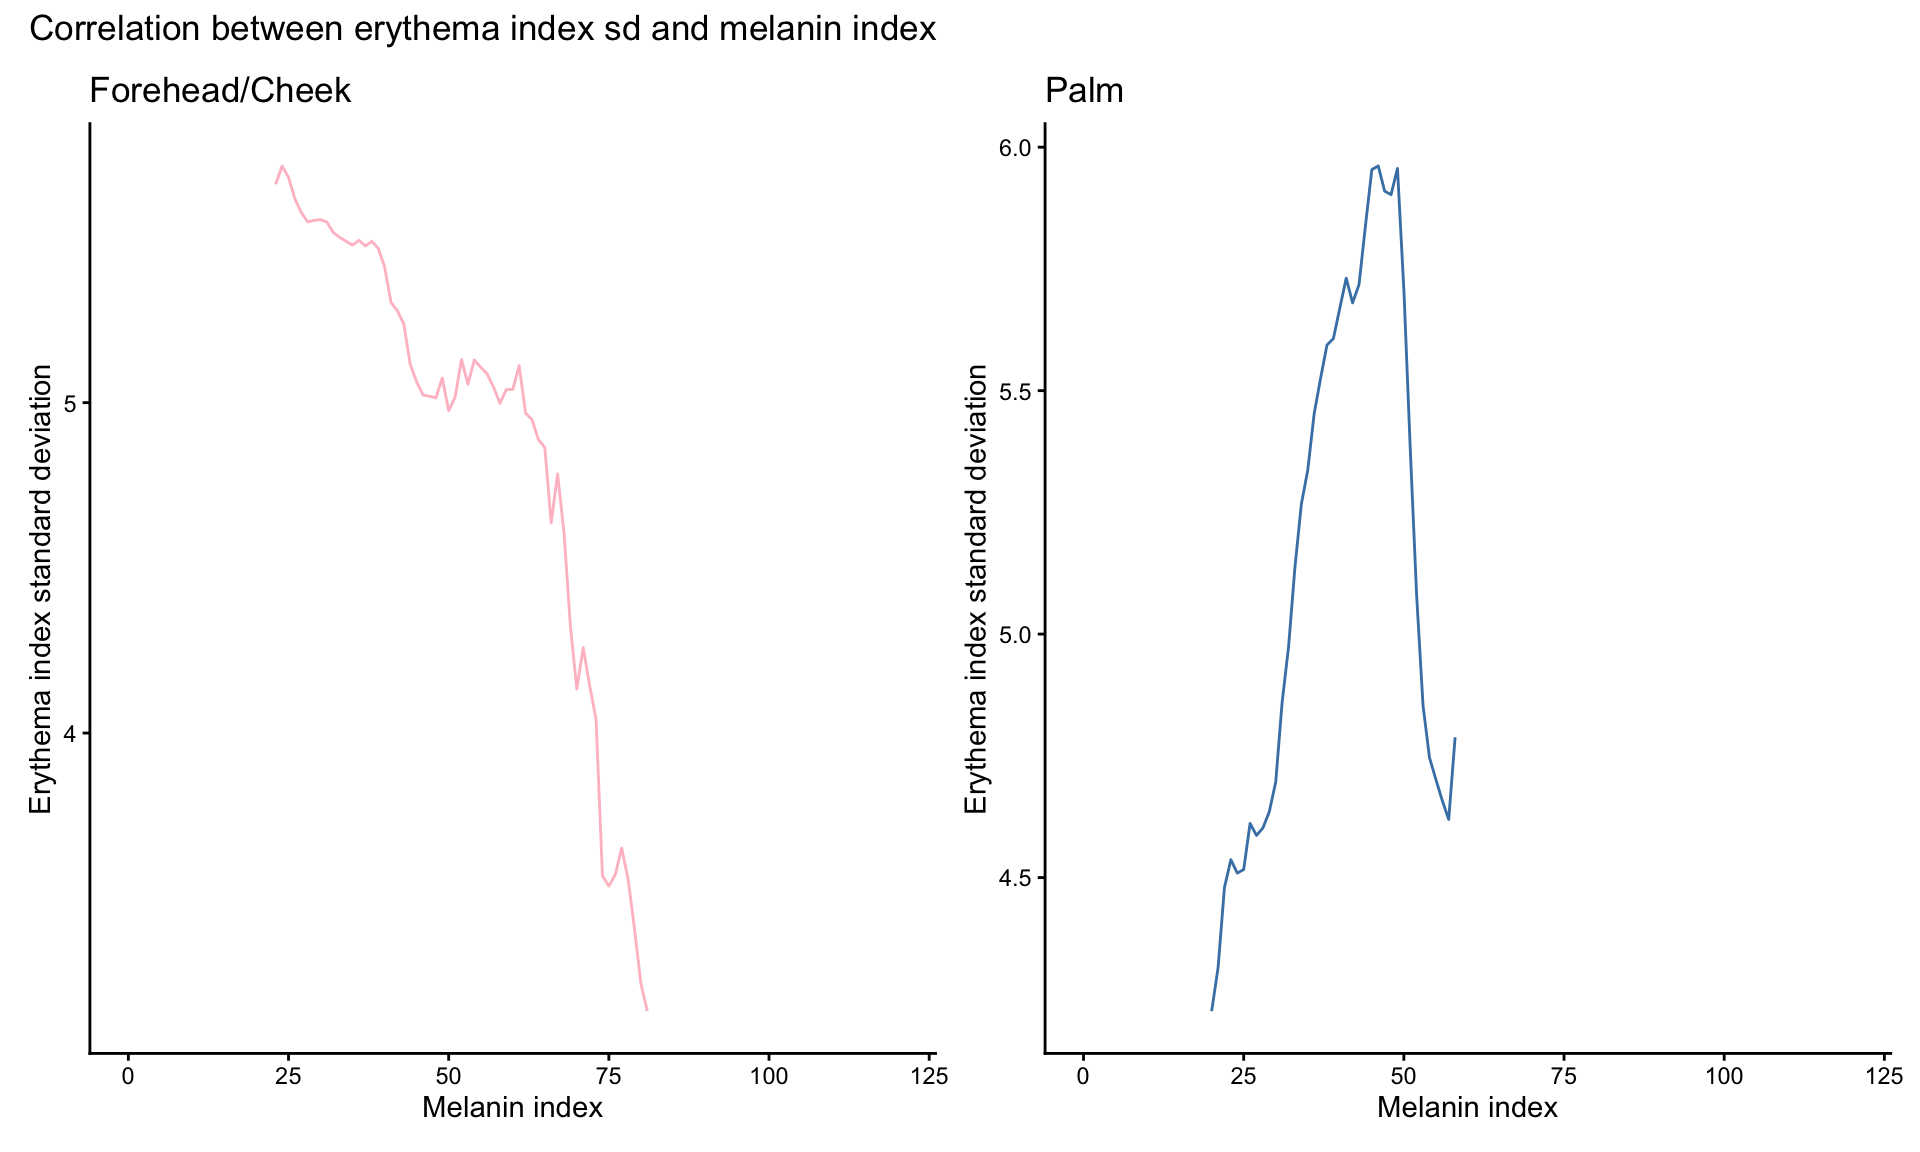
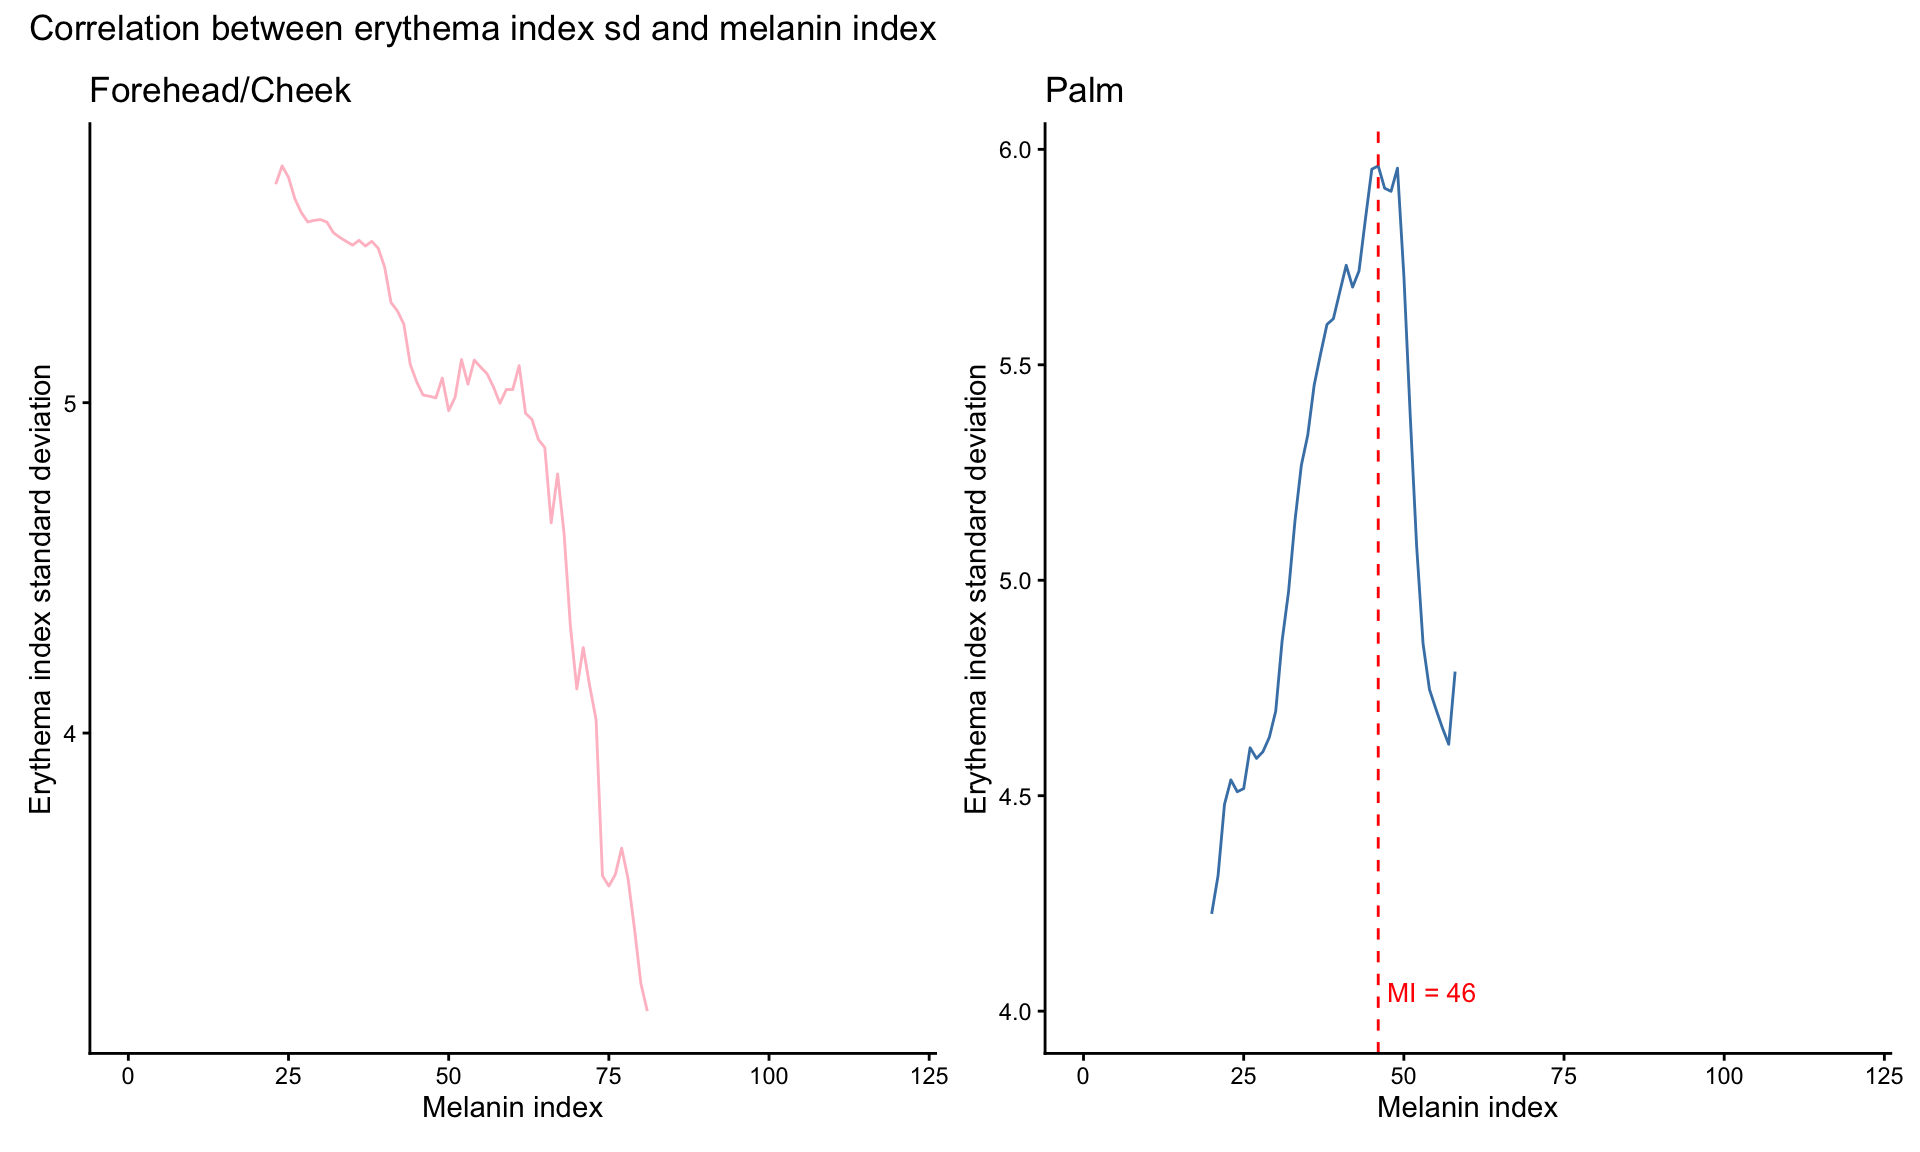
Build site.

diff --git a/docs/JID_SkinOptics.html b/docs/JID_SkinOptics.html
@@ -11,7 +11,7 @@
 
 <meta name="author" content="Junhui He" />
 
-<meta name="date" content="2025-12-11" />
+<meta name="date" content="2025-12-17" />
 
 <title>Skin Optics Analysis based on ISSA Data</title>
 
@@ -357,7 +357,7 @@ div.tocify {
 <h1 class="title toc-ignore">Skin Optics Analysis based on ISSA
 Data</h1>
 <h4 class="author">Junhui He</h4>
-<h4 class="date">2025-12-11</h4>
+<h4 class="date">2025-12-17</h4>
 
 </div>
 
@@ -386,7 +386,7 @@ class="glyphicon glyphicon-ok text-success" aria-hidden="true"></span>
 <div class="tab-content">
 <div id="summary" class="tab-pane fade in active">
 <p>
-<strong>Last updated:</strong> 2025-12-11
+<strong>Last updated:</strong> 2025-12-17
 </p>
 <p>
 <strong>Checks:</strong> <span
@@ -517,15 +517,15 @@ project makes it easier to run your code on other machines.</p>
 <div class="panel panel-default">
 <div class="panel-heading">
 <p class="panel-title">
-<a data-toggle="collapse" data-parent="#workflowr-checks" href="#strongRepositoryversionstrongahrefhttpsgithubcomlasisilabSkinOpticstreef9242483a8269c007f638b250a98827cd570a4adtargetblankf924248a">
+<a data-toggle="collapse" data-parent="#workflowr-checks" href="#strongRepositoryversionstrongahrefhttpsgithubcomlasisilabSkinOpticstreea6f7dc4ef8e85ca9313219dc9c0a235a0c7c830atargetblanka6f7dc4a">
 <span class="glyphicon glyphicon-ok text-success"
 aria-hidden="true"></span> <strong>Repository version:</strong>
-<a href="https://github.com/lasisilab/SkinOptics/tree/f9242483a8269c007f638b250a98827cd570a4ad" target="_blank">f924248</a>
+<a href="https://github.com/lasisilab/SkinOptics/tree/a6f7dc4ef8e85ca9313219dc9c0a235a0c7c830a" target="_blank">a6f7dc4</a>
 </a>
 </p>
 </div>
 <div
[2 lines of base64/hex data omitted]
 class="panel-collapse collapse">
 <div class="panel-body">
 <p>
@@ -535,7 +535,7 @@ reproducibility.
 </p>
 <p>
 The results in this page were generated with repository version
-<a href="https://github.com/lasisilab/SkinOptics/tree/f9242483a8269c007f638b250a98827cd570a4ad" target="_blank">f924248</a>.
+<a href="https://github.com/lasisilab/SkinOptics/tree/a6f7dc4ef8e85ca9313219dc9c0a235a0c7c830a" target="_blank">a6f7dc4</a>.
 See the <em>Past versions</em> tab to see a history of the changes made
 to the R Markdown and HTML files.
 </p>
@@ -553,6 +553,28 @@ Ignored files:
     Ignored:    .RData
     Ignored:    .Rhistory
     Ignored:    .Rproj.user/
+
+Untracked files:
+    Untracked:  output/palm_ei_face_mi_correlation.pdf
+    Untracked:  output/palm_ei_face_mi_sd_correlation.pdf
+    Untracked:  output/reflectance_face.pdf
+    Untracked:  output/reflectance_palm.pdf
+    Untracked:  output/reflectance_palm_face.pdf
+
+Unstaged changes:
+    Modified:   output/absorbance_derivative_face.pdf
+    Modified:   output/absorbance_derivative_palm.pdf
+    Modified:   output/absorbance_derivative_palm_face.pdf
+    Modified:   output/absorbance_mi_sd.pdf
+    Modified:   output/ei_mi_correlation.pdf
+    Modified:   output/ei_sd_mi_correlation.pdf
+    Modified:   output/heatmap.pdf
+    Modified:   output/mi_distribution.pdf
+    Modified:   output/reflectance_derivative_face.pdf
+    Modified:   output/reflectance_derivative_palm.pdf
+    Modified:   output/reflectance_derivative_palm_face.pdf
+    Modified:   output/reflectance_mi_sd.pdf
+    Modified:   output/reflectance_mi_sd_regression.pdf
 
 </code></pre>
 <p>
@@ -597,6 +619,40 @@ Message
 </tr>
 </thead>
 <tbody>
+<tr>
+<td>
+Rmd
+</td>
+<td>
+<a href="https://github.com/lasisilab/SkinOptics/blob/a6f7dc4ef8e85ca9313219dc9c0a235a0c7c830a/analysis/JID_SkinOptics.Rmd" target="_blank">a6f7dc4</a>
+</td>
+<td>
+Junhui He
+</td>
+<td>
+2025-12-17
+</td>
+<td>
+update JID_SkinOptics.Rmd
+</td>
+</tr>
+<tr>
+<td>
+html
+</td>
+<td>
+<a href="https://rawcdn.githack.com/lasisilab/SkinOptics/32c3e8f1f160ac93ffe91d4a5af83e756298032a/docs/JID_SkinOptics.html" target="_blank">32c3e8f</a>
+</td>
+<td>
+Junhui He
+</td>
+<td>
+2025-12-11
+</td>
+<td>
+Rebuild site to apply navbar layout
+</td>
+</tr>
 <tr>
 <td>
 html
@@ -904,10 +960,6 @@ Junhui He
 </div>
 <pre><code>quartz_off_screen 
                 2 </code></pre>
-</div>
-<div id="first-derivatives-of-reflectance-by-eumelanin-classes"
-class="section level2">
-<h2>First derivatives of reflectance by eumelanin classes</h2>
 <table>
 <caption>Number of subjects in each eumelanin class
 (Forehead/Cheek)</caption>
@@ -967,6 +1019,34 @@ class="section level2">
 </tr>
 </tbody>
 </table>
+</div>
+<div id="reflectance-by-eumelanin-classes" class="section level2">
+<h2>Reflectance by eumelanin classes</h2>
+<div id="face-reflectance-by-face-eumelanin-class"
+class="section level3">
+<h3>Face reflectance by face eumelanin class</h3>
+<p><img src="figure/JID_SkinOptics.Rmd/plot-raw-reflectance-by-class-face-1.png" width="100%" style="display: block; margin: auto;" /></p>
+<pre><code>quartz_off_screen 
+                2 </code></pre>
+</div>
+<div id="palm-reflectance-by-palm-eumelanin-class"
+class="section level3">
+<h3>Palm reflectance by palm eumelanin class</h3>
+<p><img src="figure/JID_SkinOptics.Rmd/plot-raw-reflectance-by-class-palm-1.png" width="100%" style="display: block; margin: auto;" /></p>
+<pre><code>quartz_off_screen 
+                2 </code></pre>
+</div>
+<div id="palm-reflectance-by-face-eumelanin-class"
+class="section level3">
+<h3>Palm reflectance by face eumelanin class</h3>
+<p><img src="figure/JID_SkinOptics.Rmd/plot-raw-reflectance-by-class-palm-face-1.png" width="100%" style="display: block; margin: auto;" /></p>
+<pre><code>quartz_off_screen 
+                2 </code></pre>
+</div>
+</div>
+<div id="first-derivatives-of-reflectance-by-eumelanin-classes"
+class="section level2">
+<h2>First derivatives of reflectance by eumelanin classes</h2>
 <div id="face-reflectance-derivatives-by-face-eumelanin-class"
 class="section level3">
 <h3>Face reflectance derivatives by face eumelanin class</h3>
@@ -1536,6 +1616,9 @@ Junhui He
 </div>
 <pre><code>quartz_off_screen 
                 2 </code></pre>
+<p><img src="figure/JID_SkinOptics.Rmd/palmei-facemi-correlation-1.png" width="100%" style="display: block; margin: auto;" /></p>
+<pre><code>quartz_off_screen 
+                2 </code></pre>
 </div>
 <div
 id="correlation-between-erythema-index-variability-and-melanin-index-by-site"
@@ -1605,61 +1688,7 @@ Junhui He
 </div>
 <pre><code>quartz_off_screen 
                 2 </code></pre>
-</div>
-<div
-id="correlation-between-erythema-index-variability-and-melanin-index-for-combined-face-and-palm-data"
-class="section level2">
-<h2>Correlation between erythema index variability and melanin index for
-combined face and palm data</h2>
-<p><img src="figure/JID_SkinOptics.Rmd/ei-sd-facepalm-1.png" width="100%" style="display: block; margin: auto;" /></p>
-<p>
-<button type="button" class="btn btn-default btn-xs btn-workflowr btn-workflowr-fig" data-toggle="collapse" data-target="#fig-ei-sd-facepalm-1">
-Past versions of ei-sd-facepalm-1.png
-</button>
-</p>
-<div id="fig-ei-sd-facepalm-1" class="collapse">
-<div class="table-responsive">
-<table class="table table-condensed table-hover">
-<thead>
-<tr>
-<th>
-Version
-</th>
-<th>
-Author
-</th>
-<th>
-Date
-</th>
-</tr>
-</thead>
-<tbody>
-<tr>
-<td>
-<a href="https://github.com/lasisilab/SkinOptics/blob/b2cbe443818548e76a5cc4401ed80a8d9a321882/docs/figure/JID_SkinOptics.Rmd/ei-sd-facepalm-1.png" target="_blank">b2cbe44</a>
-</td>
-<td>
-Junhui He
-</td>
-<td>
-2025-12-11
-</td>
-</tr>
-<tr>
-<td>
-<a href="https://github.com/lasisilab/SkinOptics/blob/d98f12d4c20e7eb56337ee2b139238717e39a260/docs/figure/JID_SkinOptics.Rmd/ei-sd-facepalm-1.png" target="_blank">d98f12d</a>
-</td>
-<td>
-Junhui He
-</td>
-<td>
-2025-12-11
-</td>
-</tr>
-</tbody>
-</table>
-</div>
-</div>
+<p><img src="figure/JID_SkinOptics.Rmd/palmei-facemi-sd-1.png" width="100%" style="display: block; margin: auto;" /></p>
 <pre><code>quartz_off_screen 
                 2 </code></pre>
 <br>
